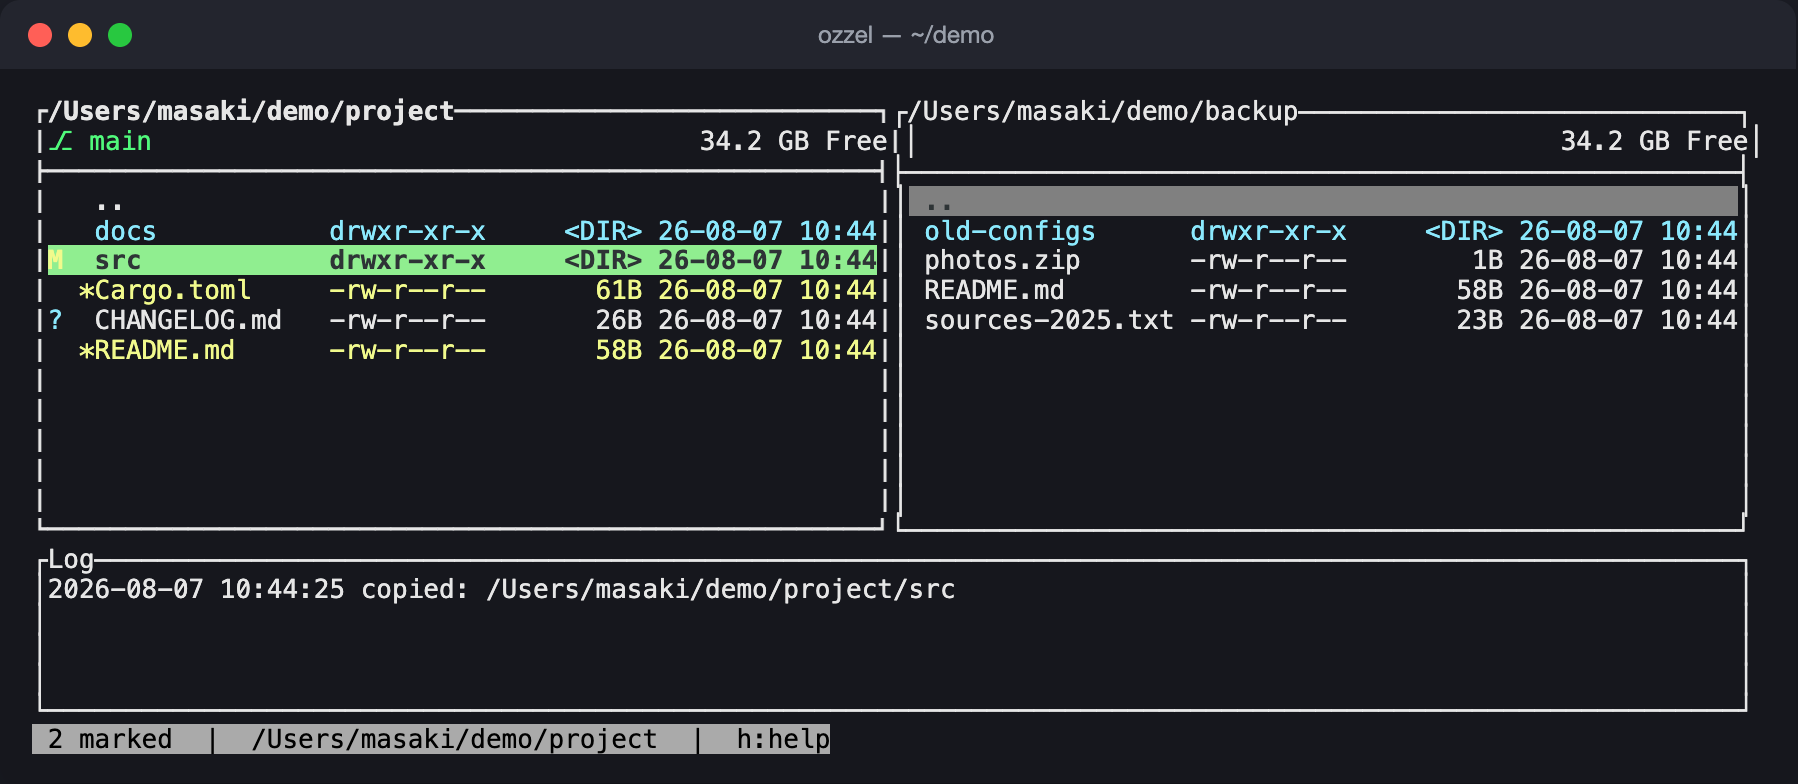
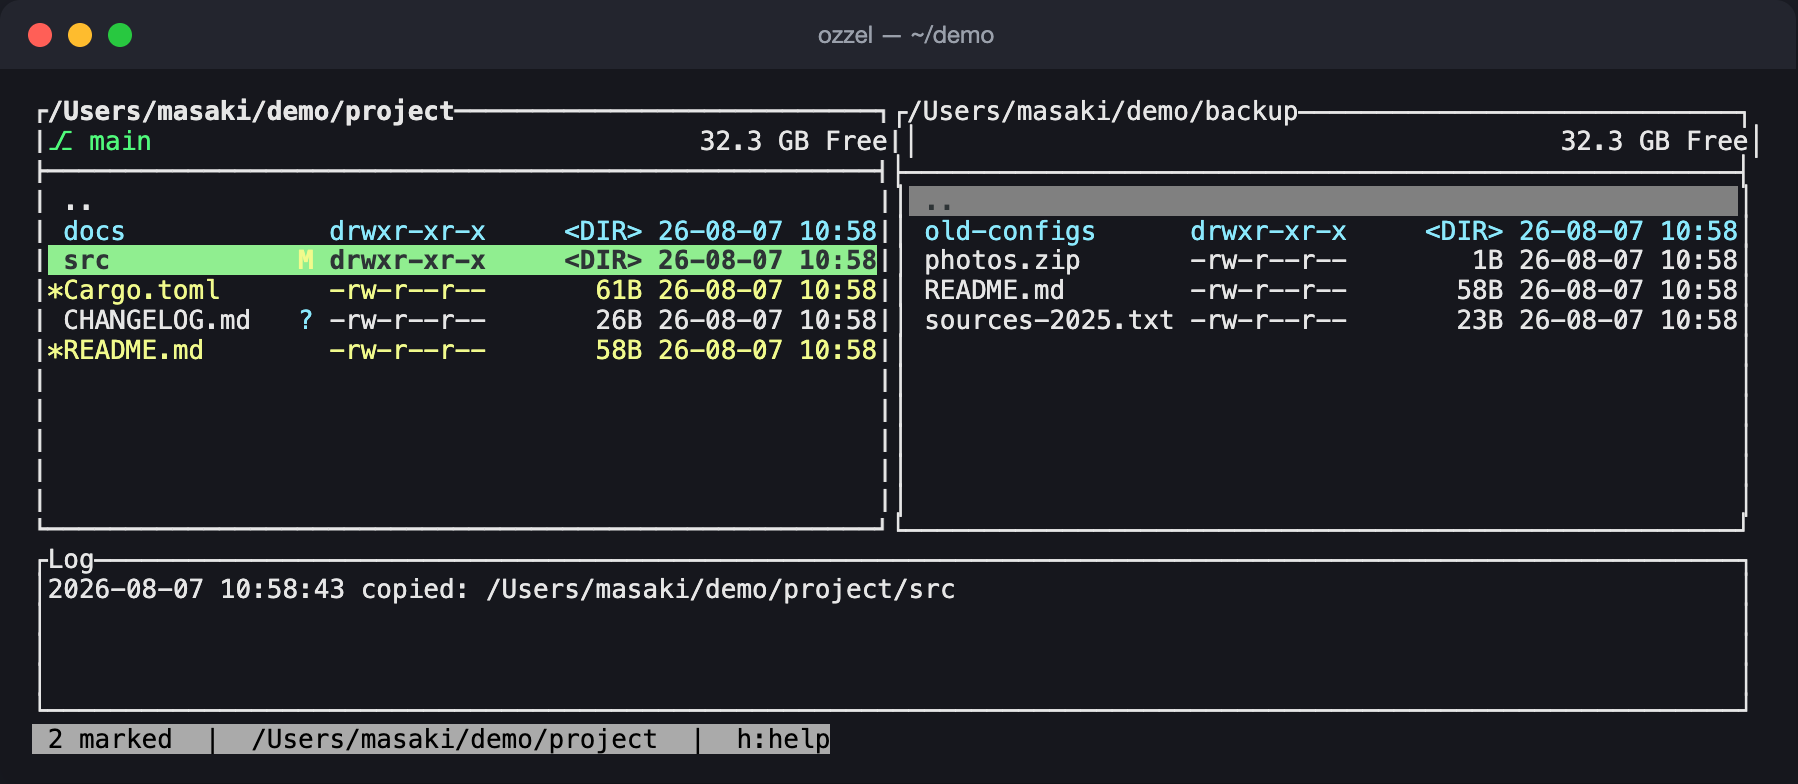
Move the git marker column next to the permissions column (#36)
The per-row git status marker now sits between the name column and the
permissions column instead of at the far left of the row — the row
start stays reserved for the mark (*) column alone. format_row is split
into format_row_parts (name half / info half) so render can insert the
colored marker span at the seam without re-deriving column math; the
joined form remains for tests. Screenshot regenerated.

Claude-Session: https://claude.ai/code/session_01La4oemepCh8TwugHRjENL4

diff --git a/src/ui/pane_view.rs b/src/ui/pane_view.rs
@@ -62,9 +62,10 @@ fn min_width_for_perms_col(fmt: SizeFormat) -> usize {
     MARK_COL_WIDTH + size_col_width(fmt) + MTIME_COL_WIDTH + PERMS_COL_WIDTH + 3 + 4
 }
 
-/// The git status column: one marker char + one space, drawn to the left
-/// of the mark column as its own `Span` (the marker is the only colored
-/// fragment in a row, so the rest of the row can stay one styled string).
+/// The git status column: one space + one marker char, drawn between the
+/// name column and the permissions column as its own `Span` (the marker
+/// is the only colored fragment in a row, so the rest of the row stays
+/// two plain styled strings — see `format_row_parts`' split point).
 const GIT_COL_WIDTH: usize = 2;
 
 /// Same narrow-pane policy as the permissions column: below this width
@@ -263,7 +264,7 @@ pub fn render(
                 }
                 _ => None,
             };
-            let text = format_row(
+            let (left, right) = format_row_parts(
                 item,
                 row_width,
                 marked,
@@ -279,7 +280,7 @@ pub fn render(
             };
             let style = row_style(idx == cursor, marked, dim, cursor_color, type_color);
             if !show_git_col {
-                return ListItem::new(Line::styled(text, style));
+                return ListItem::new(Line::styled(format!("{left}{right}"), style));
             }
             let marker = match item {
                 VisibleItem::Entry(e) => pane
@@ -289,17 +290,19 @@ pub fn render(
                     .copied(),
                 VisibleItem::Parent => None,
             };
-            // The marker span keeps the row's own style (bg on the cursor
-            // row, DIM when the pane is dimmed) and only overrides the fg
-            // with the status color, so the two spans always read as one
-            // row.
+            // The marker sits between the name column and the info
+            // columns (just left of permissions). Its span keeps the
+            // row's own style (bg on the cursor row, DIM when the pane
+            // is dimmed) and only overrides the fg with the status
+            // color, so the three spans always read as one row.
             let (marker_text, marker_style) = match marker {
-                Some(m) => (format!("{} ", m.ch()), style.fg(git_marker_color(m))),
+                Some(m) => (format!(" {}", m.ch()), style.fg(git_marker_color(m))),
                 None => ("  ".to_string(), style),
             };
             ListItem::new(Line::from(vec![
+                ratatui::text::Span::styled(left, style),
                 ratatui::text::Span::styled(marker_text, marker_style),
-                ratatui::text::Span::styled(text, style),
+                ratatui::text::Span::styled(right, style),
             ]))
         })
         .collect();
@@ -522,11 +525,12 @@ fn scroll_offset(cursor: usize, len: usize, viewport_height: usize) -> usize {
         .min(max_start)
 }
 
-/// `show_perms_col` is decided once per frame by the caller (`render`, from
-/// the pane's actual width — see `MIN_WIDTH_FOR_PERMS_COL`) so every row in
-/// a frame agrees on whether the column exists at all; when it does, `..`
-/// gets a blank column of the same width rather than omitting it, so every
-/// row's other columns stay aligned.
+/// `format_row_parts`, joined — the plain single-string row for callers
+/// (and tests) that don't need the git-marker split point.
+#[cfg_attr(
+    not(test),
+    allow(dead_code, reason = "the joined form is exercised from tests")
+)]
 fn format_row(
     item: &VisibleItem<'_>,
     width: usize,
@@ -535,6 +539,29 @@ fn format_row(
     size_format: SizeFormat,
     dir_size: Option<u64>,
 ) -> String {
+    let (left, right) =
+        format_row_parts(item, width, marked, show_perms_col, size_format, dir_size);
+    format!("{left}{right}")
+}
+
+/// `show_perms_col` is decided once per frame by the caller (`render`, from
+/// the pane's actual width — see `MIN_WIDTH_FOR_PERMS_COL`) so every row in
+/// a frame agrees on whether the column exists at all; when it does, `..`
+/// gets a blank column of the same width rather than omitting it, so every
+/// row's other columns stay aligned.
+///
+/// Returned as two halves split where the git marker column goes —
+/// `(mark + name, info columns)` — so `render` can insert the colored
+/// marker span between them (to the left of the permissions column)
+/// without re-deriving any column math.
+fn format_row_parts(
+    item: &VisibleItem<'_>,
+    width: usize,
+    marked: bool,
+    show_perms_col: bool,
+    size_format: SizeFormat,
+    dir_size: Option<u64>,
+) -> (String, String) {
     let (name, size_text, mtime_text, perms_text) = match item {
         VisibleItem::Parent => (
             "..".to_string(),
@@ -584,11 +611,13 @@ fn format_row(
     let size_col = text::pad_left(&size_text, size_width);
     let mtime_col = text::pad_left(&mtime_text, MTIME_COL_WIDTH);
 
-    if show_perms_col {
-        format!("{mark_col}{name_col} {perms_text} {size_col} {mtime_col}")
+    let left = format!("{mark_col}{name_col}");
+    let right = if show_perms_col {
+        format!(" {perms_text} {size_col} {mtime_col}")
     } else {
-        format!("{mark_col}{name_col} {size_col} {mtime_col}")
-    }
+        format!(" {size_col} {mtime_col}")
+    };
+    (left, right)
 }
 
 /// Renders `bytes` per the configured `SizeFormat` — the single dispatch
